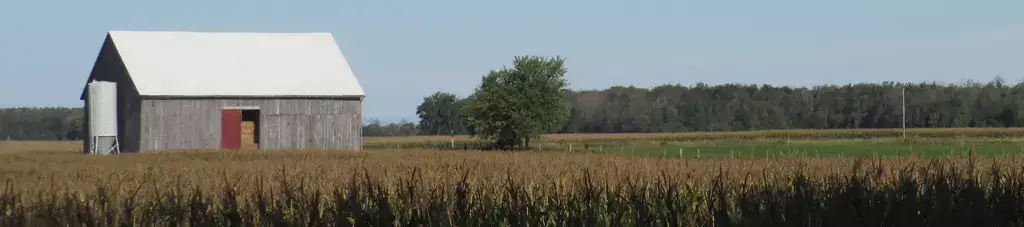
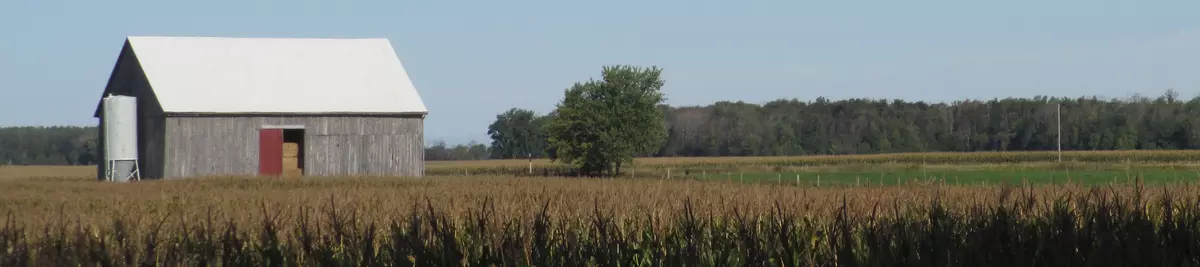
actually finished optimizing images

diff --git a/src/Components/Navbar.js b/src/Components/Navbar.js
@@ -8,13 +8,13 @@ function Navbar() {
         e.stopPropagation();
         (cartOpen)?updateCartOpen(false):updateCartOpen(true)};
 
-    return (<div className={style.wrapper} >
+    return (<nav className={style.wrapper} >
         <Link className= {style.link} to="/">Home</Link>
         <Link className= {style.link} to="/contact">Contact</Link>
         <Link to="/shop" className={style.shopButton}>Shop</Link>
-        <span className={style.cartButton} role="button"><svg onClick={showModal} className={style.cart}height="20pt" viewBox="0 -31 512.00026 512" width="20pt" xmlns="http://www.w3.org/2000/svg"><path d="m164.960938 300.003906h.023437c.019531 0 .039063-.003906.058594-.003906h271.957031c6.695312 0 12.582031-4.441406 14.421875-10.878906l60-210c1.292969-4.527344.386719-9.394532-2.445313-13.152344-2.835937-3.757812-7.269531-5.96875-11.976562-5.96875h-366.632812l-10.722657-48.253906c-1.527343-6.863282-7.613281-11.746094-14.644531-11.746094h-90c-8.285156 0-15 6.714844-15 15s6.714844 15 15 15h77.96875c1.898438 8.550781 51.3125 230.917969 54.15625 243.710938-15.941406 6.929687-27.125 22.824218-27.125 41.289062 0 24.8125 20.1875 45 45 45h272c8.285156 0 15-6.714844 15-15s-6.714844-15-15-15h-272c-8.269531 0-15-6.730469-15-15 0-8.257812 6.707031-14.976562 14.960938-14.996094zm312.152343-210.003906-51.429687 180h-248.652344l-40-180zm0 0"/><path d="m150 405c0 24.8125 20.1875 45 45 45s45-20.1875 45-45-20.1875-45-45-45-45 20.1875-45 45zm45-15c8.269531 0 15 6.730469 15 15s-6.730469 15-15 15-15-6.730469-15-15 6.730469-15 15-15zm0 0"/><path d="m362 405c0 24.8125 20.1875 45 45 45s45-20.1875 45-45-20.1875-45-45-45-45 20.1875-45 45zm45-15c8.269531 0 15 6.730469 15 15s-6.730469 15-15 15-15-6.730469-15-15 6.730469-15 15-15zm0 0"/></svg></span>
+        <span className={style.cartButton} aria-label="cart" role="button"><svg onClick={showModal} className={style.cart}height="20pt" viewBox="0 -31 512.00026 512" width="20pt" xmlns="http://www.w3.org/2000/svg"><path d="m164.960938 300.003906h.023437c.019531 0 .039063-.003906.058594-.003906h271.957031c6.695312 0 12.582031-4.441406 14.421875-10.878906l60-210c1.292969-4.527344.386719-9.394532-2.445313-13.152344-2.835937-3.757812-7.269531-5.96875-11.976562-5.96875h-366.632812l-10.722657-48.253906c-1.527343-6.863282-7.613281-11.746094-14.644531-11.746094h-90c-8.285156 0-15 6.714844-15 15s6.714844 15 15 15h77.96875c1.898438 8.550781 51.3125 230.917969 54.15625 243.710938-15.941406 6.929687-27.125 22.824218-27.125 41.289062 0 24.8125 20.1875 45 45 45h272c8.285156 0 15-6.714844 15-15s-6.714844-15-15-15h-272c-8.269531 0-15-6.730469-15-15 0-8.257812 6.707031-14.976562 14.960938-14.996094zm312.152343-210.003906-51.429687 180h-248.652344l-40-180zm0 0"/><path d="m150 405c0 24.8125 20.1875 45 45 45s45-20.1875 45-45-20.1875-45-45-45-45 20.1875-45 45zm45-15c8.269531 0 15 6.730469 15 15s-6.730469 15-15 15-15-6.730469-15-15 6.730469-15 15-15zm0 0"/><path d="m362 405c0 24.8125 20.1875 45 45 45s45-20.1875 45-45-20.1875-45-45-45-45 20.1875-45 45zm45-15c8.269531 0 15 6.730469 15 15s-6.730469 15-15 15-15-6.730469-15-15 6.730469-15 15-15zm0 0"/></svg></span>
         <div onClick={showModal}>{(cartOpen)?<Cart />: null}</div>
-        </div>
+        </nav>
     );
   }
   export default Navbar;

diff --git a/src/Components/footer.js b/src/Components/footer.js
@@ -3,7 +3,6 @@ import style from  './footer.module.scss';
 import { Link} from 'react-router-dom';
 function Footer() {
     return (
-      <div className={style.footwrapper}>
         <footer className={style.footerElem}>
           
         <Link  to="/">Home</Link>
@@ -11,7 +10,6 @@ function Footer() {
         <Link to="/shop" >Shop</Link>
         <div className={style.referal}>Designed by <a href='http://www.devstevers.tk/' className='footer'>CStevers Development</a>     <div>Icons made by <a href="https://www.freepik.com" title="Freepik">Freepik</a> from <a href="https://www.flaticon.com/" title="Flaticon">www.flaticon.com</a></div></div></footer>
         
-      </div>
     );
   }
   export default Footer;

diff --git a/src/Components/form.module.scss b/src/Components/form.module.scss
@@ -3,6 +3,11 @@
     display: grid;
     min-height: 50vh;
     
+    justify-self: start;
+    font-size: 1.25rem;
+    flex: 0;
+    max-width: 100%;
+    margin: 5vh 0px;
     grid-template-columns: 1fr 1fr;
     grid-template-rows: .15fr.15fr  .15fr .25fr ;
     grid-template-areas:
@@ -24,13 +29,7 @@
     }
     
 }
-.flexChild{
-    justify-self: start;
-    font-size: 1.25rem;
-    flex: 0;
-    max-width: 100%;
-    margin: 5vh 0px;
-}
+
 .message{
     grid-area: e;
     margin-bottom: 2.5vh;

diff --git a/src/Components/form.js b/src/Components/form.js
@@ -11,7 +11,7 @@ function Form() {
               console.log(error.text);
           });
       }
-    return (<div className={style.flexChild}>
+    return (
             <form id="contact-form" className={style.form} onSubmit={sendEmail}>
                 
             <div className={style.flexInput}>
@@ -29,7 +29,6 @@ function Form() {
             <input id="send" type="submit"  value="Send" className={style.send}></input>
 
         </form>
-    </div>
     );
 }
 export default Form;

diff --git a/src/Components/footer.module.scss b/src/Components/footer.module.scss
@@ -11,6 +11,10 @@
     display: grid;
     grid-template-columns: 1fr 1fr 1fr;
     grid-template-rows: 1fr 1fr;
+    background-color: #1d3014;
+    width: 100%;
+    height: 20vh;
+    margin-bottom: 0px;
 }
 
 a.footer{
@@ -26,9 +30,3 @@ a.footer{
     grid-area: 2/1/3/4;
     text-align: center;
     padding: 5px;}
-.footwrapper{
-    background-color: #1d3014;
-    width: 100%;
-    height: 20vh;
-    margin-bottom: 0px;
-}

diff --git a/src/Components/Header.js b/src/Components/Header.js
@@ -1,8 +1,8 @@
 import style from './Header.module.scss';
 function Header(props) {
-    return (<div className={style.background} >
+    return (<header className={style.background} >
         <h1 className={style.h1}>{props.title}</h1>
-        </div>
+        </header>
     );
   }
   export default Header;
